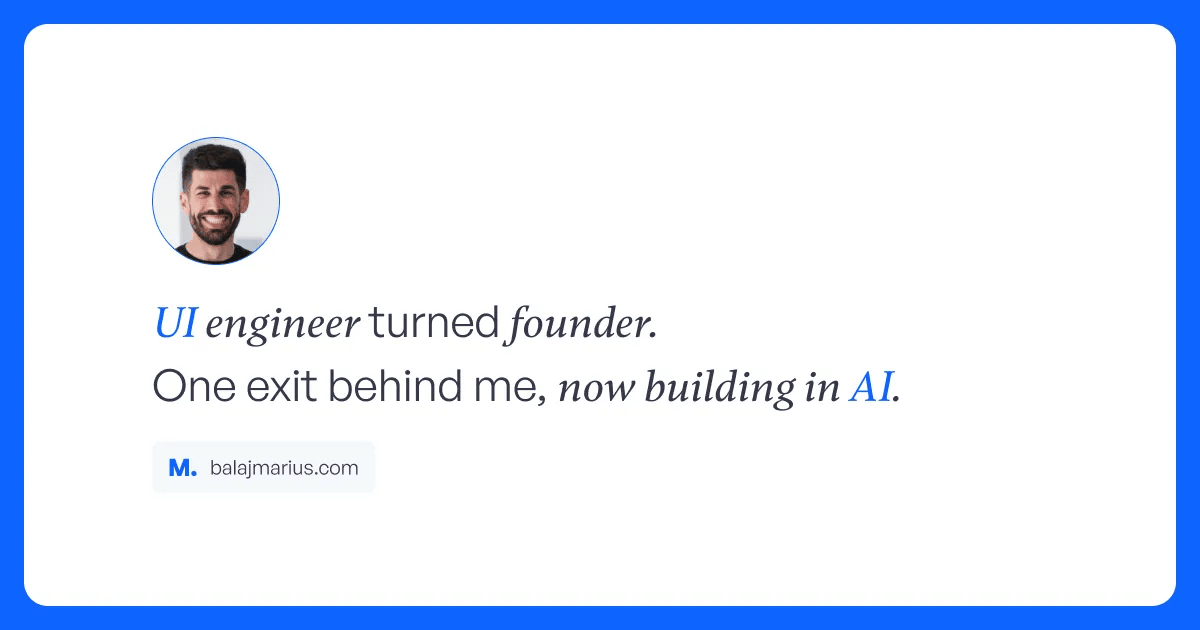
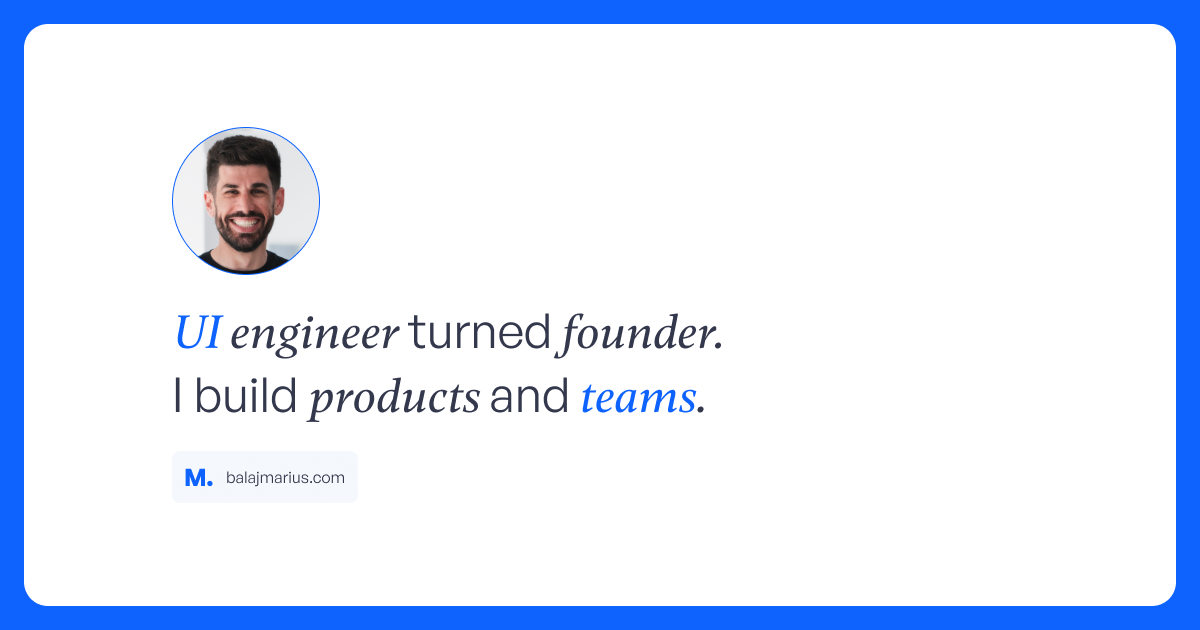
chore: update OG image and add AGENTS.md

Changed region(s): [[0.1233, 0.4825, 0.74, 0.6635], [0.1233, 0.181, 0.2775, 0.4524], [0.1233, 0.7238, 0.3083, 0.7841]]

diff --git a/AGENTS.md b/AGENTS.md
@@ -1,0 +1,171 @@
+# AGENTS.md
+
+## Project Overview
+
+Personal website built with Next.js (App Router), React 19, TypeScript, Tailwind CSS v4, and MDX. Hosted on Vercel.
+
+## Commands
+
+- `npm run dev` — start development server (use this while iterating, not `npm run build`)
+- `npm run build` — production build
+- `npm run lint` — run oxlint
+- `npm run format` — format with oxfmt
+- `npm run format:check` — check formatting with oxfmt
+
+Always run `npm run lint` and `npm run format:check` after making changes.
+
+## Project Structure
+
+```
+src/
+├── app/          # Next.js App Router pages and layouts
+├── components/   # Reusable UI components
+├── sections/     # Page-level section components
+├── hooks/        # Custom React hooks
+├── lib/          # Data fetching and business logic
+├── utils/        # Utilities, constants, helpers
+├── content/      # MDX/Markdown content files
+├── copy/         # i18n translations (en-EN.json)
+├── i18n/         # i18n config (next-intl)
+├── data/         # JSON data files
+└── static/       # CSS (globals.css) and local fonts
+```
+
+## Code Conventions
+
+### Component Structure
+
+Each component lives in its own directory with three files:
+
+```
+components/button/
+├── button.tsx    # Component implementation
+├── types.ts      # Types and variant definitions
+└── index.ts      # Barrel exports
+```
+
+Barrel exports follow this pattern:
+
+```typescript
+export { default as Button } from "./button";
+export * from "./types";
+```
+
+### Type Patterns
+
+Use `as const` arrays for variant unions:
+
+```typescript
+export const ButtonVariants = ["default", "transparent"] as const;
+export type ButtonVariant = (typeof ButtonVariants)[number];
+export type ButtonVariantMapping = Record<ButtonVariant, string>;
+```
+
+Use discriminated unions when a variant changes which props are required:
+
+```typescript
+type ChipDefaultProps = ChipBaseProps & {
+  variant?: "default";
+  color: ChipColor;
+};
+type ChipOutlinedProps = ChipBaseProps & { variant: "outlined"; color?: never };
+export type ChipProps = ChipDefaultProps | ChipOutlinedProps;
+```
+
+### Naming Conventions
+
+- **Component files**: PascalCase directories, camelCase filenames (`components/Button/button.tsx`)
+- **Utility files**: camelCase (`helpers.ts`, `keyframes.ts`)
+- **Types**: `ComponentNameProps`, `ComponentNameVariant`, `ComponentNameVariantMapping`
+- **Variant mapping objects**: `xxxClassNames` (e.g., `buttonVariantClassNames`)
+- **Const arrays**: Plural form (`ButtonVariants`, `ChipColors`)
+
+### Styling
+
+Tailwind CSS v4 with variant mapping objects and `cn()` for class merging:
+
+```typescript
+const buttonVariantClassNames: ButtonVariantMapping = {
+  transparent: "cursor-pointer",
+  default: "cursor-pointer rounded-sm px-2 py-1 text-gray-600 hover:bg-blue-500",
+};
+
+className={cn("base-classes", buttonVariantClassNames[variant])}
+```
+
+`cn()` is defined in `@/utils/helpers` — it combines `classnames` with `tailwind-merge`.
+
+Custom colors, utilities, and theme tokens are defined in `/src/static/css/globals.css` using Tailwind v4's `@theme inline` block. Do not use arbitrary values when a design token exists.
+
+### Props
+
+- Extend native HTML attributes: `& HTMLAttributes<HTMLElement>`
+- Set defaults in function parameters: `variant = "default"`
+- Keep props minimal with sensible defaults
+
+### Import Order
+
+Strict ordering, always use `@/*` path alias:
+
+1. `"use client"` directive (if needed)
+2. React / Next.js imports
+3. External libraries (`framer-motion`, `date-fns`, etc.)
+4. Type imports from `@/` (use `import type`)
+5. Components / sections from `@/`
+6. Utils / helpers from `@/`
+
+### Comments
+
+Use `// ABOUTME:` prefix for explanation comments on non-obvious patterns. Do not add comments for self-evident code.
+
+### Animations
+
+Define animation objects in `/src/utils/keyframes.ts` and import them into components. Use `framer-motion` for motion (`motion`, `AnimatePresence`, `useScroll`, `useTransform`, `useSpring`). Preferred easing: `[0.33, 1, 0.68, 1]`.
+
+### i18n
+
+Use `next-intl` with translations in `/src/copy/en-EN.json`.
+
+Rich text renderers are defined inline in components:
+
+```typescript
+{t.rich("about.title", {
+  serif: (chunks: ReactNode) => (
+    <span className="font-serif italic text-blue-500">{chunks}</span>
+  ),
+})}
+```
+
+Translation strings use XML-like tags matching renderer keys:
+
+```json
+{
+  "about.title": "I build <serif>digital products</serif>."
+}
+```
+
+### Server vs Client Components
+
+- Default to Server Components for data fetching and static rendering
+- Add `"use client"` only when the component uses hooks, state, or browser APIs
+- Data fetching happens in `src/lib/` — use `gray-matter` for Markdown, `axios` for APIs, dynamic `import()` for JSON
+
+### Fonts
+
+Three local font families loaded via `next/font/local` in the root layout:
+
+- **Sans**: GeneralSans (Regular, Medium, Bold) — `font-sans`
+- **Serif**: Gambetta (Regular, Medium, Bold) — `font-serif`
+- **Mono**: RobotoMono (Regular) — `font-mono`
+
+## Commit Convention
+
+Follow conventional commits: `feat`, `fix`, `docs`, `chore`, `style`, `refactor`, `ci`, `test`, `revert`, `perf`.
+
+Commits are enforced by `commitlint` via Husky pre-commit hooks. Do not skip hooks.
+
+## PR Instructions
+
+- Keep changes focused and minimal — do not refactor surrounding code
+- Run `npm run lint` and `npm run format:check` before pushing
+- Ensure `npm run build` passes
